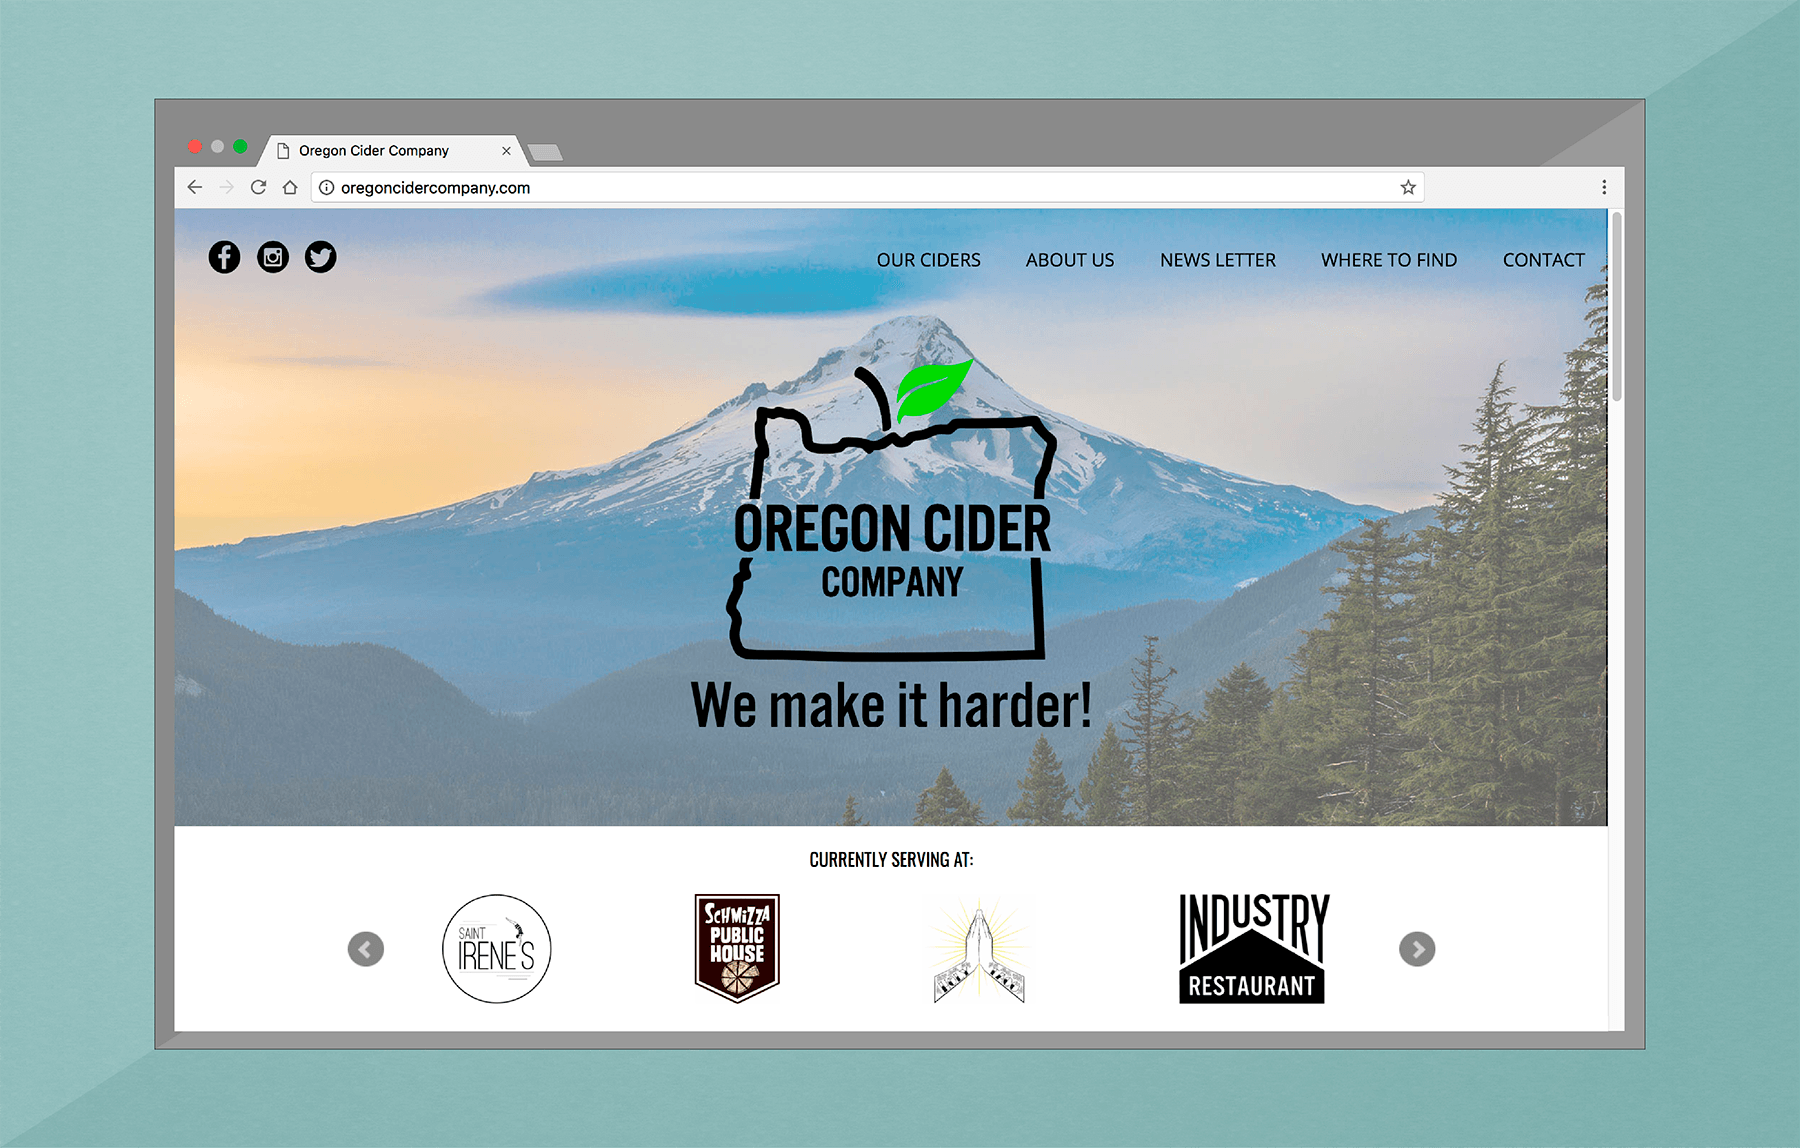
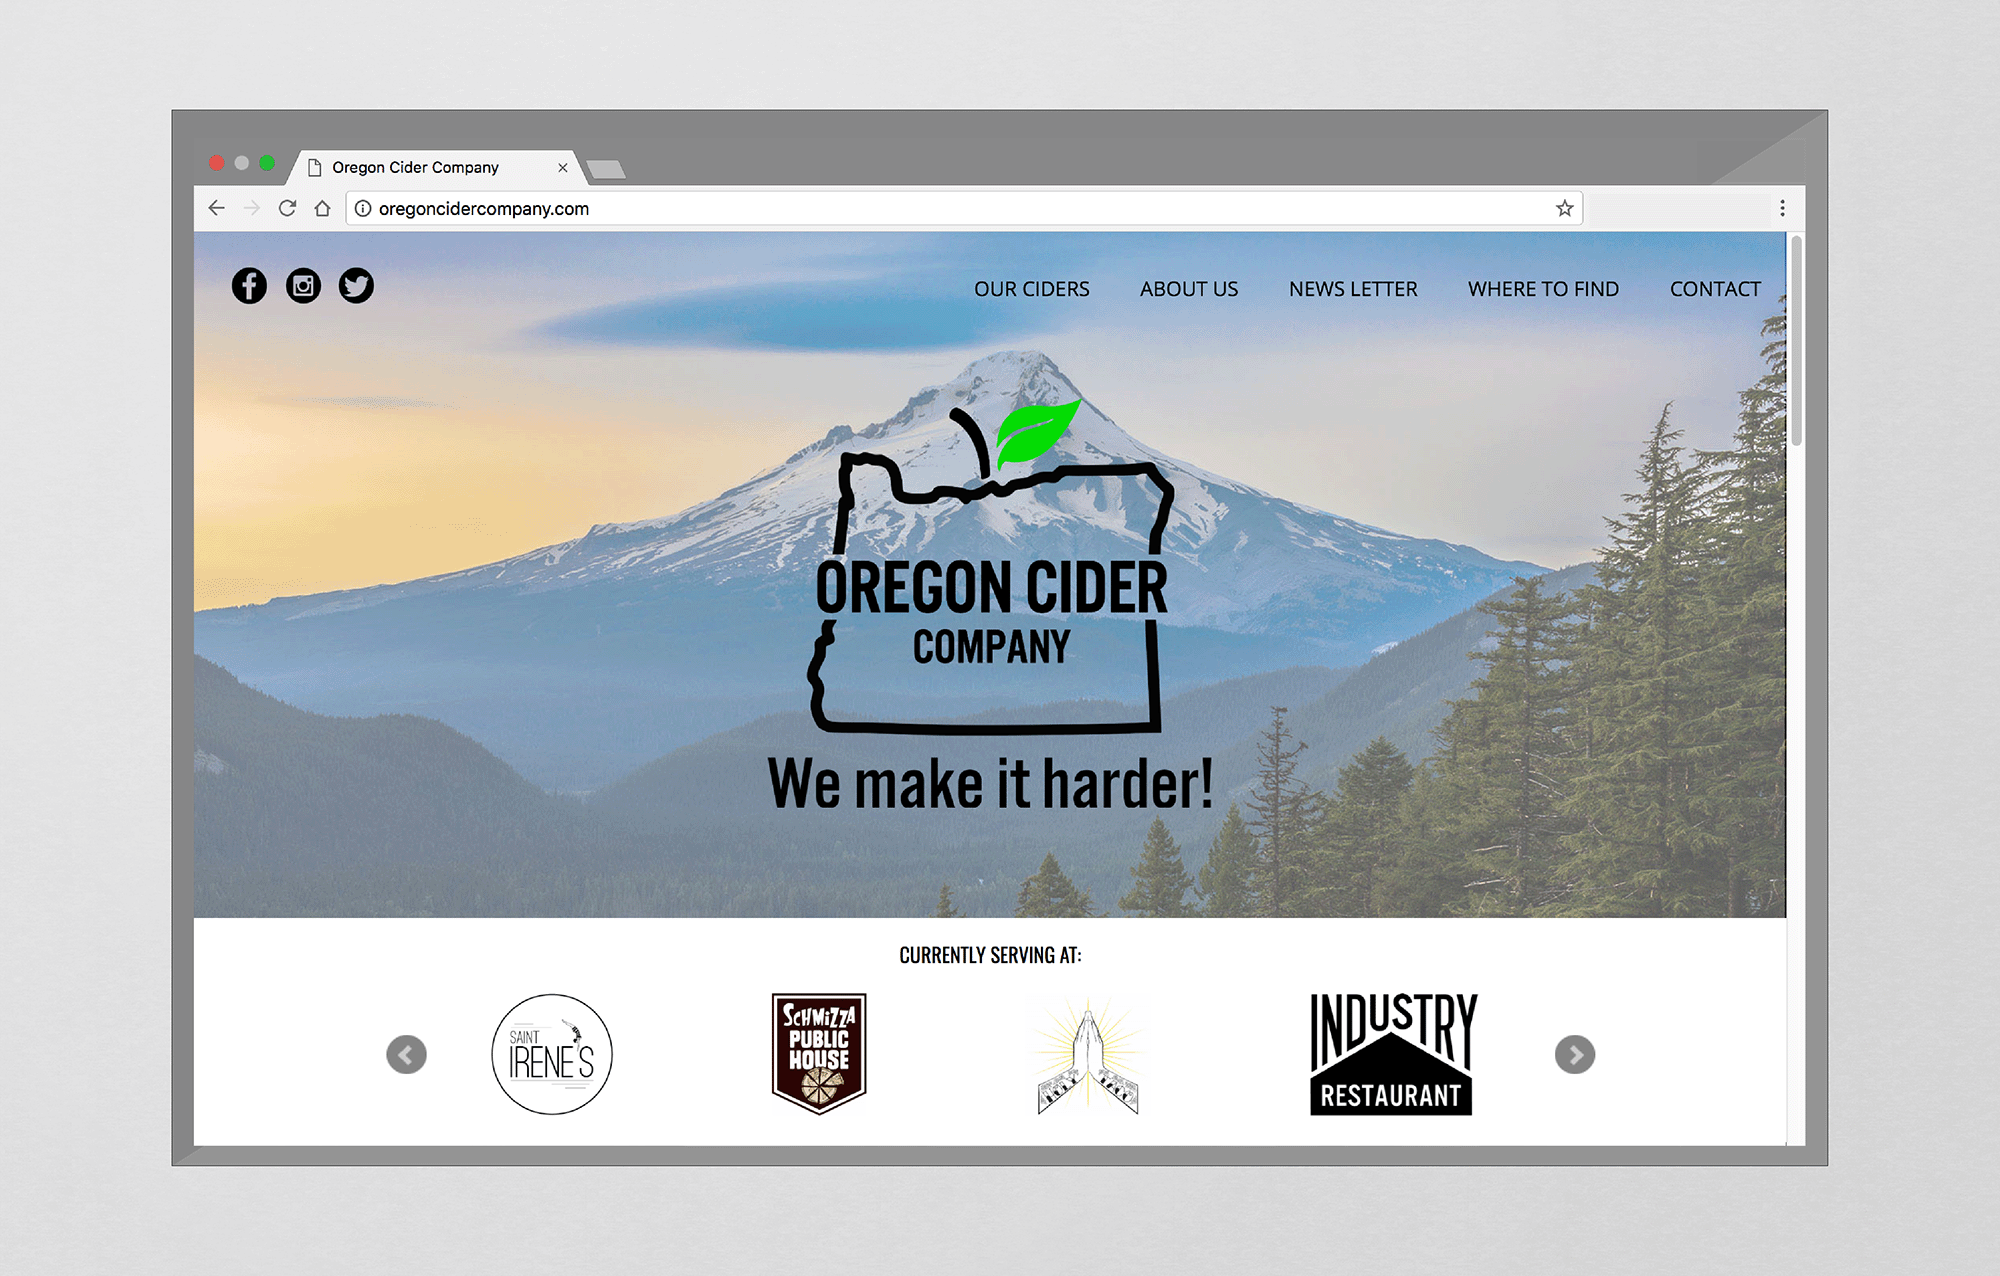
updated background and buttons for slides

diff --git a/index.html b/index.html
@@ -31,16 +31,16 @@
 			<div id="diamond-grid">
 				<!-- First Row -->
 				<div id="first-row">
-					<a class="diamond odd empty thumb first-row-first" href="work/storables.html"  id="storables"><p>STORABLES</p></a>
-					<a class="diamond thumb first-row-second" href="work/ivet.html" id="ivet"><p>iVET360</p></a>
+					<a class="diamond odd empty thumb first-row-first" href="work/ivet.html"  id="ivet"><p>iVET</p></a>
+					<a class="diamond thumb first-row-second" href="work/vacasa.html" id="vacasa"><p>VACASA</p></a>
 					<div class="diamond empty first-row-third"></div>
 
 				</div>
 
 				<!-- Second Row -->
 				<div id="second-row">
-					<a class="diamond even thumb second-row-first" href="work/vacasa.html" id="vacasa"><p>VACASA</p></a>
-					<a class="diamond dark thumb second-row-second" href="work/storables.html"  id="storables"><p>STORABLES</p></a>
+					<a class="diamond even thumb second-row-first" href="work/amazon.html" id="amazon"><p>AMAZON</p></a>
+					<a class="diamond dark thumb second-row-second" href="work/ivet.html"  id="ivet"><p>iVET</p></a>
 					<div class="diamond solid-empty second-row-third"></div>
 					<div class="diamond solid-empty second-row-fourth"></div>
 				</div>
@@ -49,14 +49,14 @@
 				<div id="third-row">
 					<div class="diamond odd solid-empty third-row-first"></div>
 					<div class="diamond solid-empty third-row-second"></div>
-					<a class="diamond thumb third-row-third" href="work/orcider.html" id="orcider"><p>OR CIDER</p></a>
-					<a class="diamond dark thumb third-row-fourth" href="work/amazon.html" id="amazon"><p>AMAZON</p></a>
+					<a class="diamond thumb third-row-third" href="work/storables.html" id="storables"><p>STORABLES</p></a>
+					<a class="diamond dark thumb third-row-fourth" href="work/orcider.html" id="orcider"><p>ORCIDER</p></a>
 				</div>
 
 
 				<!-- Fourth Row -->
 				<div id="fourth-row">
-					<a class="diamond even empty fourth-row-first thumb" href="work/amazon.html" id="amazon"><p>AMAZON</p></a>
+					<a class="diamond even empty fourth-row-first thumb" href="work/orcider.html" id="orcider"><p>ORCIDER</p></a>
 					<a div class="diamond dark empty thumb fourth-row-second" href="work/prm.html"  id="prm"><p>PRM</p></a>
 					<a class="diamond thumb fourth-row-third" href="work/prm.html"  id="prm"><p>PRM</p></a>
 				</div>
@@ -64,7 +64,7 @@
 				<!-- Fifth Row -->
 				<div id="fifth-row">
 					<a class="diamond odd empty fifth-row-first thumb" href="work/prm.html"  id="prm"><p>PRM</p></a>
-					<a class="diamond dark empty thumb fifth-row-second" href="work/orcider.html" id="orcider"><p>OR CIDER</p></a>
+					<a class="diamond dark empty thumb fifth-row-second" href="work/storables.html" id="storables"><p>STORABLES</p></a>
 					<a class="diamond empty fifth-row-third"></a>
 				</div>
 
@@ -75,12 +75,12 @@
 
 				<!-- seventh Row -->
 				<div id="seventh-row">
-					<a class="diamond odd thumb seventh-row-first" href="work/orcider.html" id="orcider"><p>OR CIDER</p></a>
+					<a class="diamond odd thumb seventh-row-first" href="work/storables.html" id="storables"><p>STORABLES</p></a>
 				</div>
 
 				<!-- eighth Row -->
 				<div id="eighth-row">
-					<a class="diamond even solid-empty eighth-row-first thumb" href="work/ivet.html" id="ivet"><p>iVET360</p></a>
+					<a class="diamond even solid-empty eighth-row-first thumb" href="work/vacasa.html" id="vacasa"><p>VACASA</p></a>
 				</div>
 
 				<!-- ninth Row -->

diff --git a/work/amazon.html b/work/amazon.html
@@ -27,25 +27,28 @@
 			</nav>
 		</div>
 
-		<h2 class="work-header">Amazon</h2>
-		<div class="responsive"><center>
-		<img  src="../images/comingsoon.jpg">
-		</center></div>
+		<br>
+			<ul id="amazon-desktop">
+				<li><img src="../images/amazon/amazon.png"></li>
+				<li><img src="../images/amazon/amazon2.png"></li>
+				<li><img src="../images/amazon/amazon3.png"></li>
+				<li><img src="../images/amazon/amazon4.png"></li>
+				<li><img src="../images/amazon/amazon5.png"></li>
+				<li><img src="../images/amazon/amazon6.png"></li>
+			</ul>
+	
 
-		<p class="caption" >
-			<center>Under construction! Please check back soon.</center><br />
-		</p>
-
-		<script src="https://ajax.googleapis.com/ajax/libs/jquery/1.8.2/jquery.min.js"></script>
-		<script src="../bxslider/jquery.bxslider.min.js"></script>
-		<script>
-			$(document).ready(function() {
-				$('#sizzle-desktop').bxSlider({
-					mode: 'fade',
-					auto: true,
-					slideWidth: 1000
+	
+			<script src="https://ajax.googleapis.com/ajax/libs/jquery/1.8.2/jquery.min.js"></script>
+			<script src="../bxslider/jquery.bxslider.min.js"></script>
+			<script>
+				$(document).ready(function() {
+					$('#amazon-desktop').bxSlider({
+						mode: 'fade',
+						auto: true,
+						slideWidth: 1000
+					});
 				});
-			});
-		</script>
-	</body>
-</html>
+			</script>
+		</body>
+	</html>

diff --git a/work/prm.html b/work/prm.html
@@ -28,14 +28,14 @@
 			</nav>
 		</div>
 
-		<h2 class="work-header">Pacific Residential Mortgage</h2>
+		<br>>
 
 		<ul id="PRMcards-slideshow">
 			<li><img src="../images/prm/flyer_1.png"></li>
 			<li><img src="../images/prm/flyer_2.png"></li>
-			<li><img src="../images/prm/borchure_1.png"></li>
-			<li><img src="../images/prm/borchure_2.png"></li>
-			<li><img src="../images/prm/borchure_3.png"></li>
+			<li><img src="../images/prm/brochure_1.png"></li>
+			<li><img src="../images/prm/brochure_2.png"></li>
+			<li><img src="../images/prm/brochure_3.png"></li>
 			<li><img src="../images/prm/postcard_1.png"></li>
 			<li><img src="../images/prm/postcard_2.png"></li>
 		</ul>

diff --git a/work/ivet.html b/work/ivet.html
@@ -27,19 +27,19 @@
 			</nav>
 		</div>
 
-		<h2 class="work-header">iVet360</h2>
+		<br>
 
 		<h3>Infographics</h3>
 		<br>
 		<ul id="ivet-slideshow">
+			<li><img src="../images/ivet/info3.png" width="1000"></li>
 			<li><img src="../images/ivet/info.png" width="1000"></li>
 			<li><img src="../images/ivet/info2.png" width="1000"></li>
-			<li><img src="../images/ivet/info3.png" width="1000"></li>
 			<li><img src="../images/ivet/info4.png" width="1000"></li>
 		
 		</ul>
 
-		<h3>E-Newsletters</h3>
+		<h3>Emails</h3>
 		<br>
 		<ul id="ledlenser-slideshow">
 			<li><img src="../images/ivet/ivet.png" width="1000"></li>

diff --git a/bxslider/jquery.bxslider.css b/bxslider/jquery.bxslider.css
@@ -30,7 +30,6 @@
 ===================================*/
 
 .bx-wrapper .bx-viewport {
-	border:  1px solid #ccc;
 	left: -5px;
 	background: #fff;
 
@@ -102,12 +101,12 @@
 
 .bx-wrapper .bx-prev {
 
-	background: url(images/controls.png) no-repeat 0 -32px;
+	background: url(images/controls2.png) no-repeat 0 -32px;
 }
 
 .bx-wrapper .bx-next {
 	right: 10px;
-	background: url(images/controls.png) no-repeat -43px -32px;
+	background: url(images/controls2.png) no-repeat -43px -32px;
 }
 
 .bx-wrapper .bx-prev:hover {

diff --git a/work/orcider.html b/work/orcider.html
@@ -27,14 +27,14 @@
 			</nav>
 		</div>
 
-		<h2 class="work-header">Oregon Cider Co.</h2>
+		<br>
 
 		<ul id="envision-slideshow">
 			<li><img src="../images/envision/or_1.png"></li>
 			<li><img src="../images/envision/or_2.png"></li>
 			<li><img src="../images/envision/or_3.png"></li>
-			
-			
+			<li><img src="../images/envision/or_4.png"></li>
+			<li><img src="../images/envision/or_5.png"></li>
 		</ul>
 
 		<p class="caption">

diff --git a/work/envision.html b/work/envision.html
@@ -33,6 +33,8 @@
 			<li><img src="../images/envision/or_1.png"></li>
 			<li><img src="../images/envision/or_2.png"></li>
 			<li><img src="../images/envision/or_3.png"></li>
+			<li><img src="../images/envision/or_4.png"></li>
+			<li><img src="../images/envision/or_5.png"></li>
 			
 			
 		</ul>

diff --git a/work/storables.html b/work/storables.html
@@ -27,8 +27,7 @@
 			</nav>
 		</div>
 
-		<h2 class="work-header">Storables</h2>
-		<h3>Email Blasts</h3>
+	
 		<br>
 		<ul id="sizzle-desktop">
 			<li><img src="../images/storables/emails.png"></li>

diff --git a/stylesheets/styles.css b/stylesheets/styles.css
@@ -28,6 +28,7 @@ menu, nav, section, summary {
 body {
   font-family: 'Open Sans', sans-serif;
   color: #000;
+  background-color: #fff;
 }
 
 h2, h3 {

diff --git a/work/vacasa.html b/work/vacasa.html
@@ -27,7 +27,7 @@
 			</nav>
 		</div>
 
-		<h2 class="work-header">Vacasa</h2>
+		<br>>
 
 
 		<ul id="Vacasa-slideshow">
